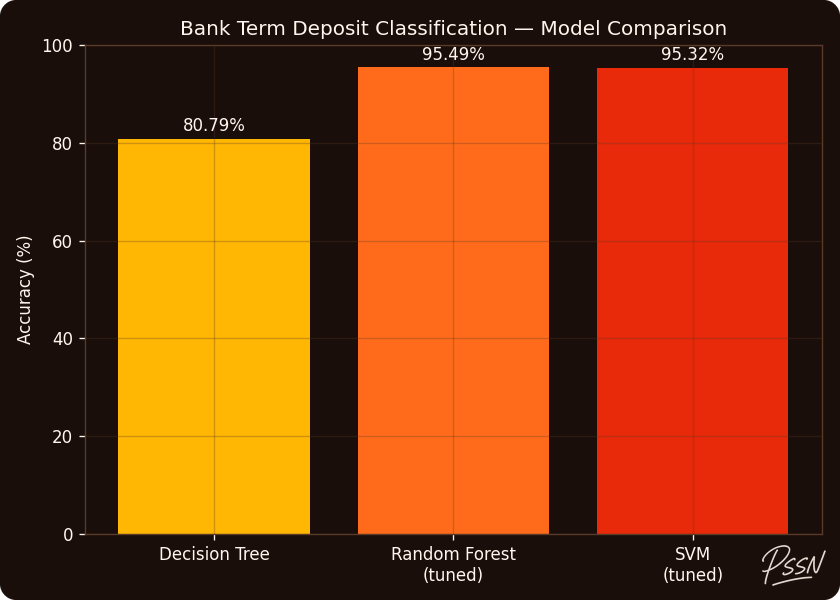
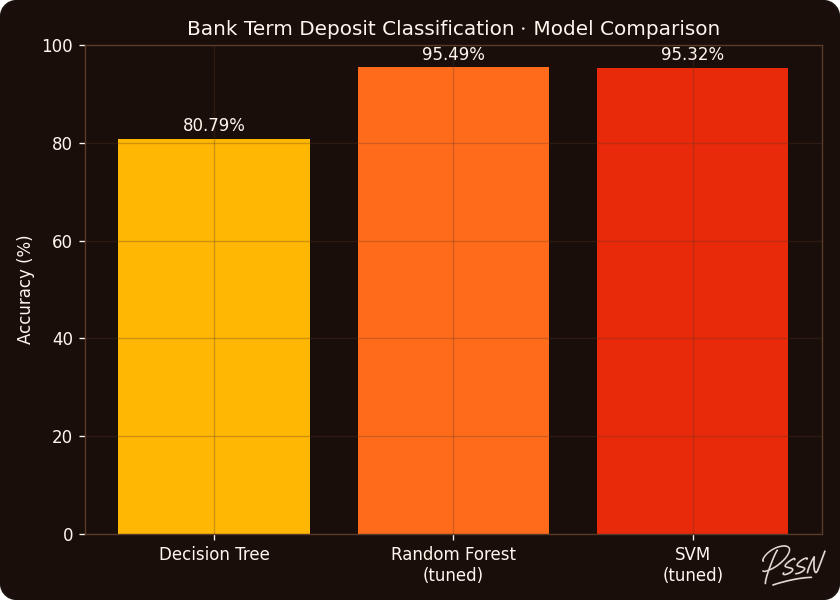
Tidy punctuation

Changed region(s): [[0.2167, 0.03, 0.8667, 0.06]]

diff --git a/README.md b/README.md
@@ -11,7 +11,7 @@
 Two related notebooks on classification fundamentals and a full applied pipeline.
 
 ## `entropy_information_gain.ipynb`
-A from-scratch implementation of entropy and information gain — the math decision trees use to pick which feature to split on. Good for understanding what's happening under the hood before reaching for `sklearn`.
+A from-scratch implementation of entropy and information gain: the math decision trees use to pick which feature to split on. Good for understanding what's happening under the hood before reaching for `sklearn`.
 
 ## `bank_term_deposit_classification.ipynb`
 An end-to-end classification pipeline predicting whether a bank client will subscribe to a term deposit:
